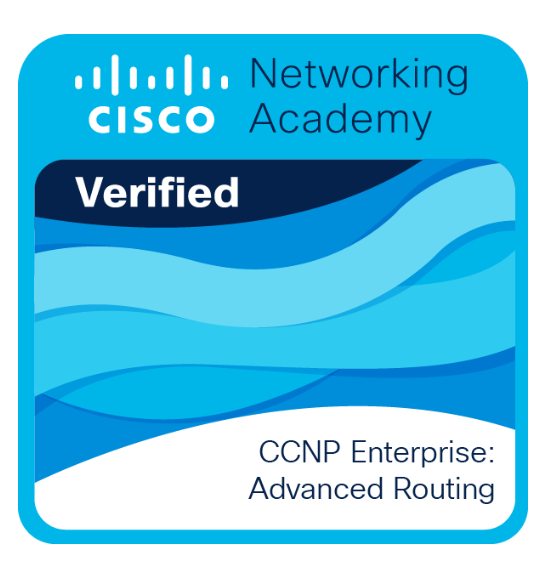
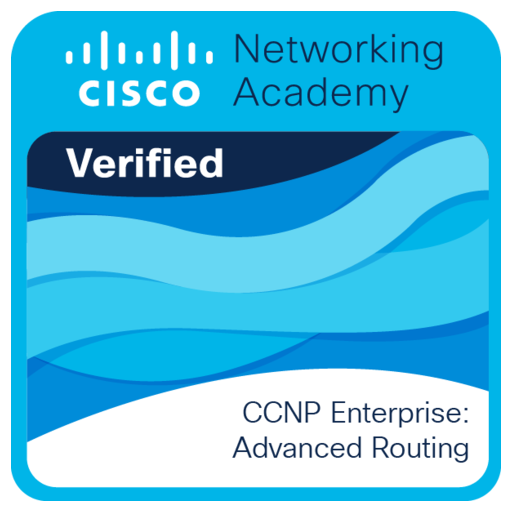
fix: use official transparent Credly badge for CCNP-ADV-RT and increase showcase badge dimensions

Changed region(s): [[0.0, 0.0, 1.0, 1.0], [0.1562, 0.7812, 0.25, 0.8125]]

diff --git a/src/components/Certifications.jsx b/src/components/Certifications.jsx
@@ -307,14 +307,14 @@ function CertBlock({ cert, index, visible }) {
 
             {/* ── EXPANDED: decoded block ── */}
             <div style={{
-                maxHeight: open ? '420px' : '0',
+                maxHeight: open ? '550px' : '0',
                 overflow: 'hidden',
                 transition: 'max-height 0.4s cubic-bezier(0.4,0,0.2,1)',
             }}>
                 <div style={{
                     borderTop: `1px solid ${cert.color}20`,
                     margin: '0 14px',
-                    padding: '14px 0 16px',
+                    padding: '16px 0 18px',
                     display: 'flex',
                     alignItems: 'center',
                     justifyContent: 'space-between',
@@ -323,11 +323,11 @@ function CertBlock({ cert, index, visible }) {
                 }}>
                     {/* Left: Credential details */}
                     <div style={{
-                        flex: '1 1 260px',
+                        flex: '1 1 250px',
                         minWidth: 0,
                         display: 'flex',
                         flexDirection: 'column',
-                        gap: '10px',
+                        gap: '12px',
                     }}>
                         {/* Full cert name */}
                         <div>
@@ -419,47 +419,48 @@ function CertBlock({ cert, index, visible }) {
                             flexDirection: 'column',
                             alignItems: 'center',
                             justifyContent: 'center',
-                            padding: '12px 18px',
-                            borderRadius: '6px',
-                            background: `radial-gradient(ellipse at center, ${cert.color}14 0%, rgba(5,8,18,0.7) 70%)`,
-                            border: `1px solid ${cert.color}25`,
-                            boxShadow: `0 8px 32px rgba(0,0,0,0.6), inset 0 0 20px ${cert.color}0a`,
+                            padding: '14px 20px',
+                            borderRadius: '8px',
+                            background: `radial-gradient(ellipse at center, ${cert.color}18 0%, rgba(5,8,18,0.75) 75%)`,
+                            border: `1px solid ${cert.color}30`,
+                            boxShadow: `0 10px 36px rgba(0,0,0,0.7), inset 0 0 24px ${cert.color}0d`,
                             cursor: 'pointer',
                             transition: 'transform 0.3s ease, border-color 0.3s ease, box-shadow 0.3s ease',
                             flexShrink: 0,
                         }}
                         onMouseEnter={(e) => {
-                            e.currentTarget.style.transform = 'translateY(-2px) scale(1.02)';
-                            e.currentTarget.style.borderColor = `${cert.color}66`;
-                            e.currentTarget.style.boxShadow = `0 12px 36px ${cert.color}22, inset 0 0 24px ${cert.color}18`;
+                            e.currentTarget.style.transform = 'translateY(-3px) scale(1.03)';
+                            e.currentTarget.style.borderColor = `${cert.color}77`;
+                            e.currentTarget.style.boxShadow = `0 14px 42px ${cert.color}28, inset 0 0 30px ${cert.color}20`;
                         }}
                         onMouseLeave={(e) => {
                             e.currentTarget.style.transform = 'none';
-                            e.currentTarget.style.borderColor = `${cert.color}25`;
-                            e.currentTarget.style.boxShadow = `0 8px 32px rgba(0,0,0,0.6), inset 0 0 20px ${cert.color}0a`;
+                            e.currentTarget.style.borderColor = `${cert.color}30`;
+                            e.currentTarget.style.boxShadow = `0 10px 36px rgba(0,0,0,0.7), inset 0 0 24px ${cert.color}0d`;
                         }}
                     >
                         <img
                             src={cert.badge}
                             alt={`${cert.name} Official Badge`}
                             style={{
-                                width: '115px',
-                                height: '115px',
+                                width: '150px',
+                                height: '150px',
                                 objectFit: 'contain',
-                                filter: 'drop-shadow(0 4px 12px rgba(0,0,0,0.7))',
+                                filter: 'drop-shadow(0 6px 16px rgba(0,0,0,0.7))',
+                                transition: 'filter 0.3s ease',
                             }}
                             loading="lazy"
                         />
                         <div style={{
-                            marginTop: '8px',
-                            fontSize: '8px',
+                            marginTop: '10px',
+                            fontSize: '9px',
                             fontFamily: 'var(--font-mono)',
-                            letterSpacing: '1.5px',
+                            letterSpacing: '2px',
                             color: cert.color,
-                            opacity: 0.85,
+                            opacity: 0.9,
                             display: 'flex',
                             alignItems: 'center',
-                            gap: '4px',
+                            gap: '5px',
                         }}>
                             <span>⬡</span>
                             <span>OFFICIAL_BADGE</span>
